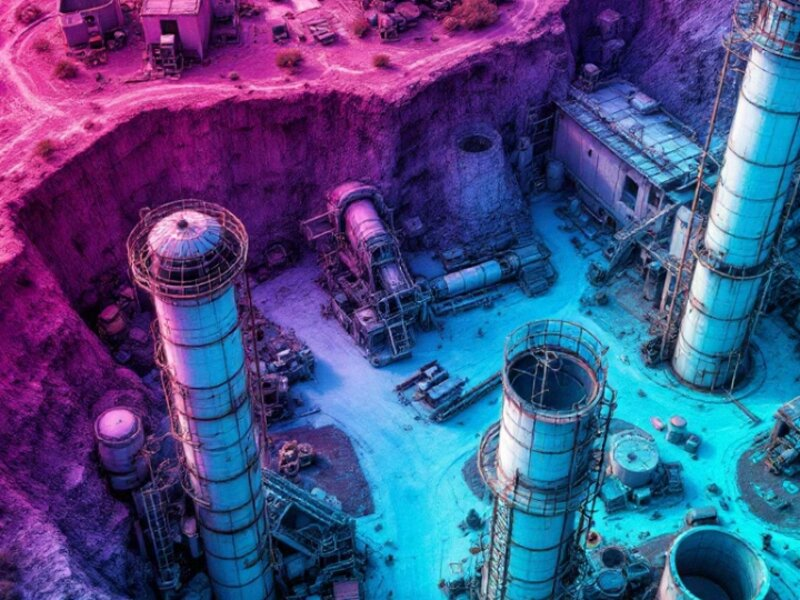
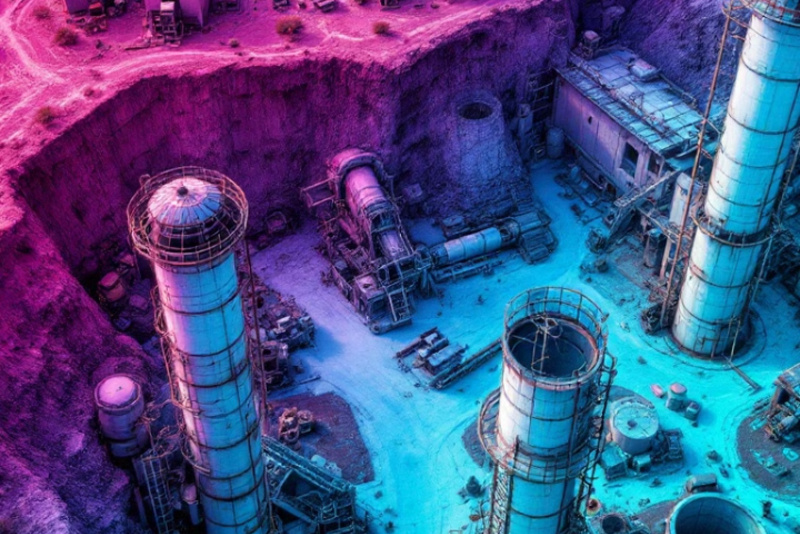
fix: re-export images at native resolution and fix hero background scaling

diff --git a/css/sections/hero.css b/css/sections/hero.css
@@ -11,20 +11,27 @@
   display: flex;
   align-items: center;
   background-color: var(--color-carbon);
-  background-size: cover;
-  background-position: center;
+  background-size: 100% auto;
+  background-position: center 30%;
   background-repeat: no-repeat;
   overflow: hidden;
   /* Override section default padding for hero (uses full height instead) */
   padding-block: 0;
 }
 
-/* Dark overlay so text remains legible over the background image */
+/* Dark overlay: heavy at top (text legibility) → lightens mid → solid dark at bottom */
 .hero::before {
   content: '';
   position: absolute;
   inset: 0;
-  background: linear-gradient(135deg, rgba(18,18,18,0.88) 0%, rgba(30,35,45,0.75) 100%);
+  background:
+    linear-gradient(
+      to bottom,
+      rgba(18,18,18,0.82) 0%,
+      rgba(18,18,18,0.65) 40%,
+      rgba(18,18,18,0.90) 75%,
+      rgba(18,18,18,1.00) 100%
+    );
   z-index: 0;
 }
 
